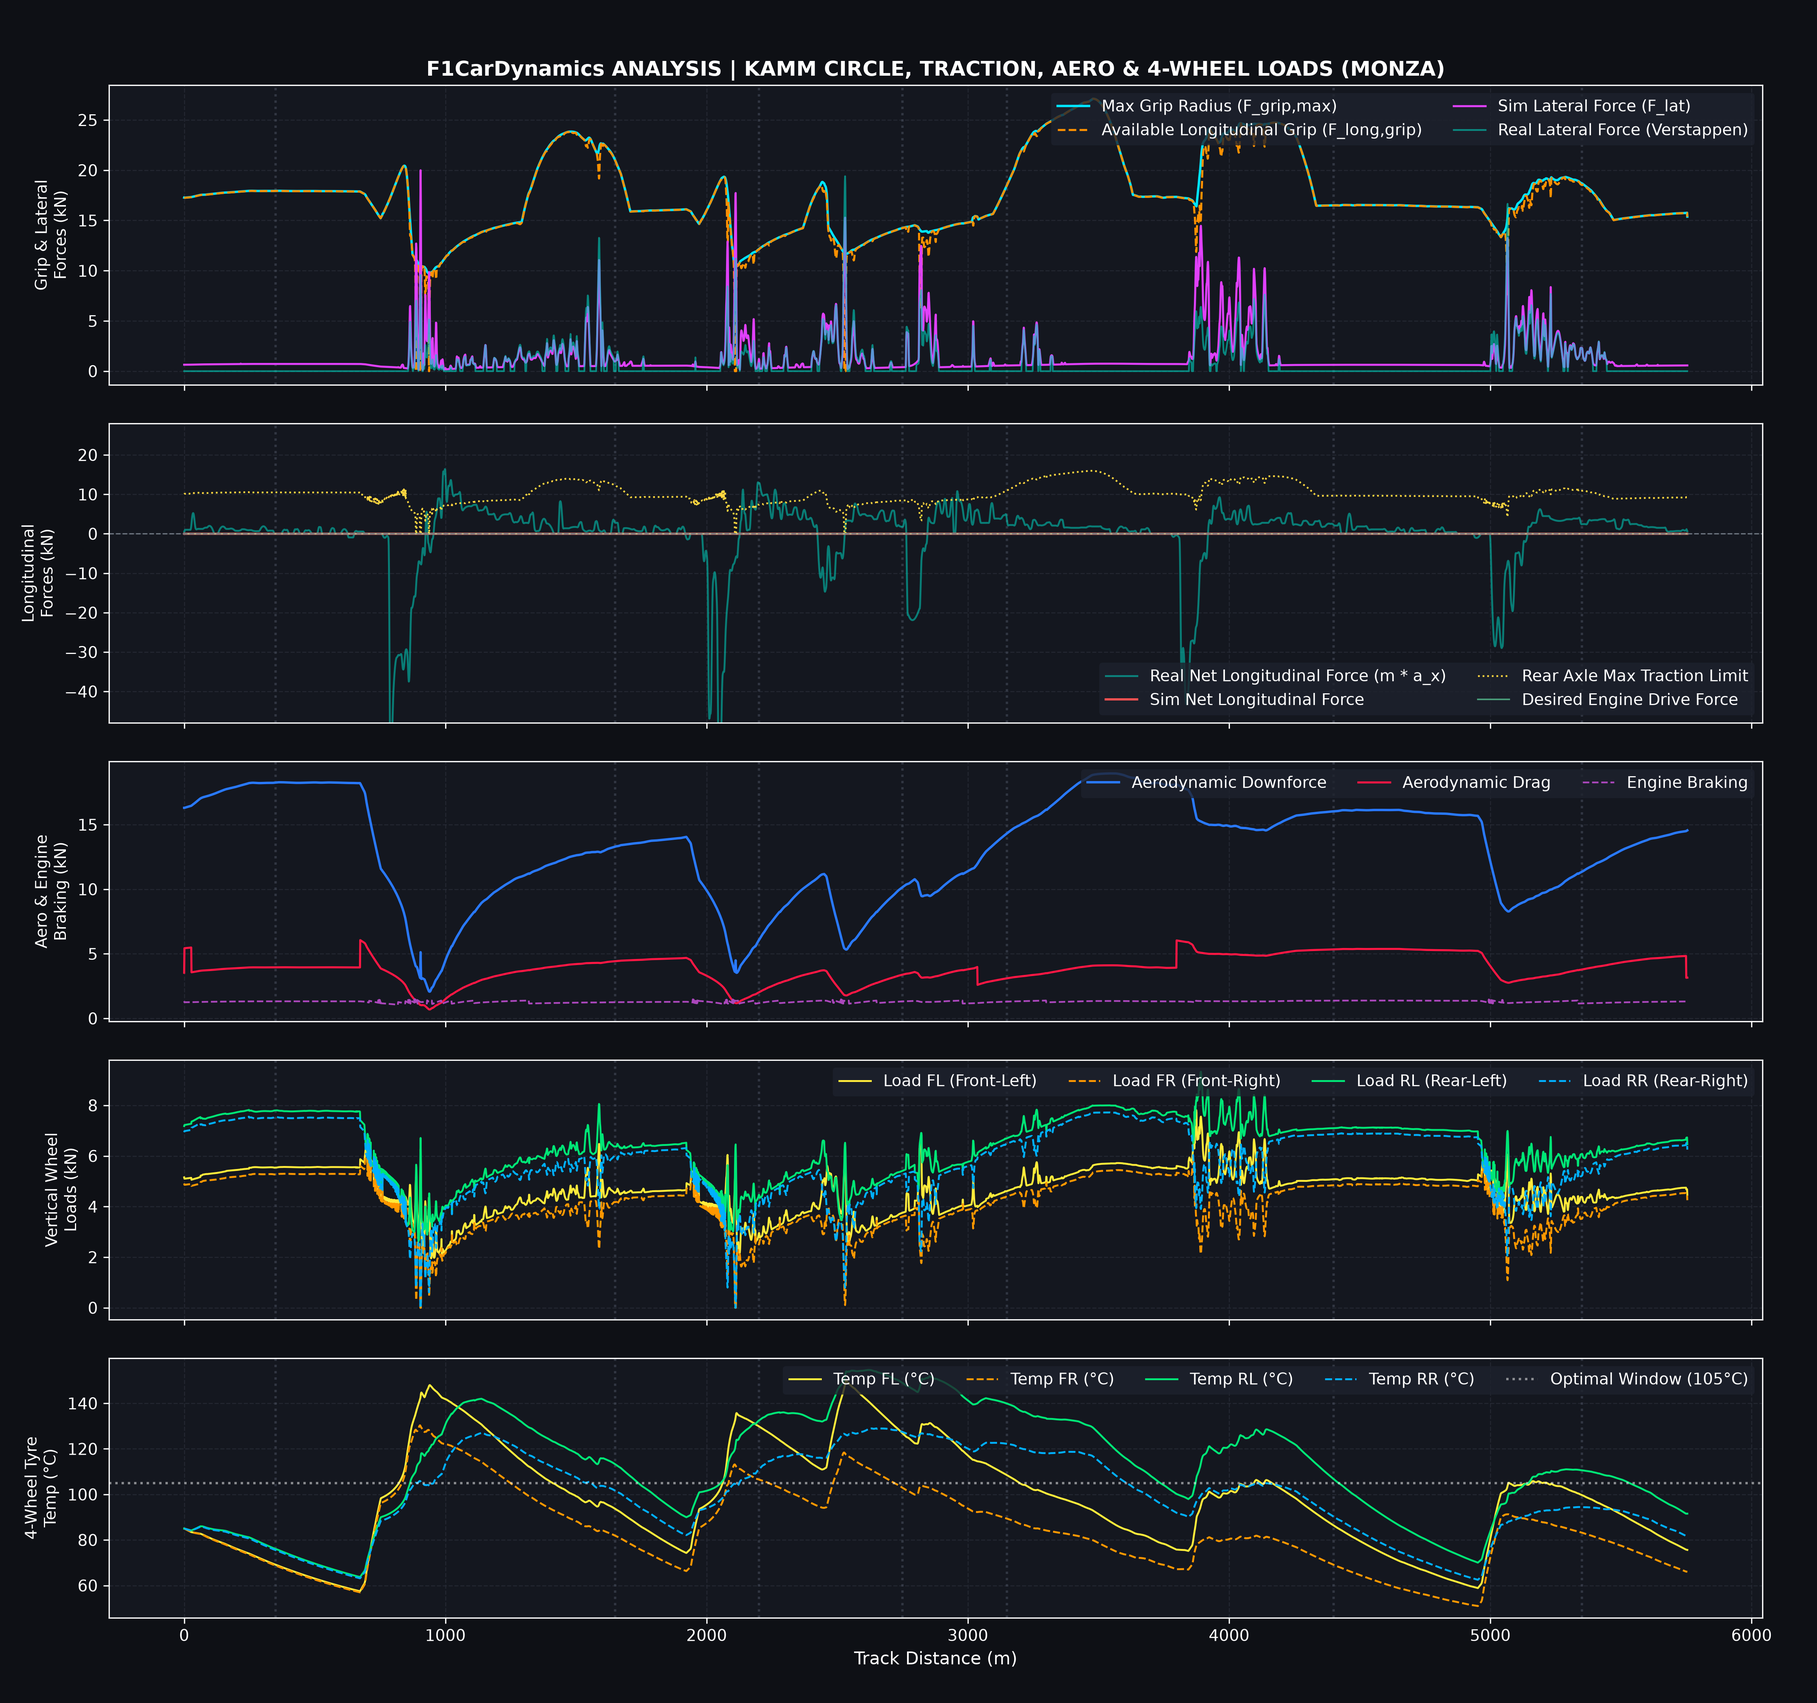
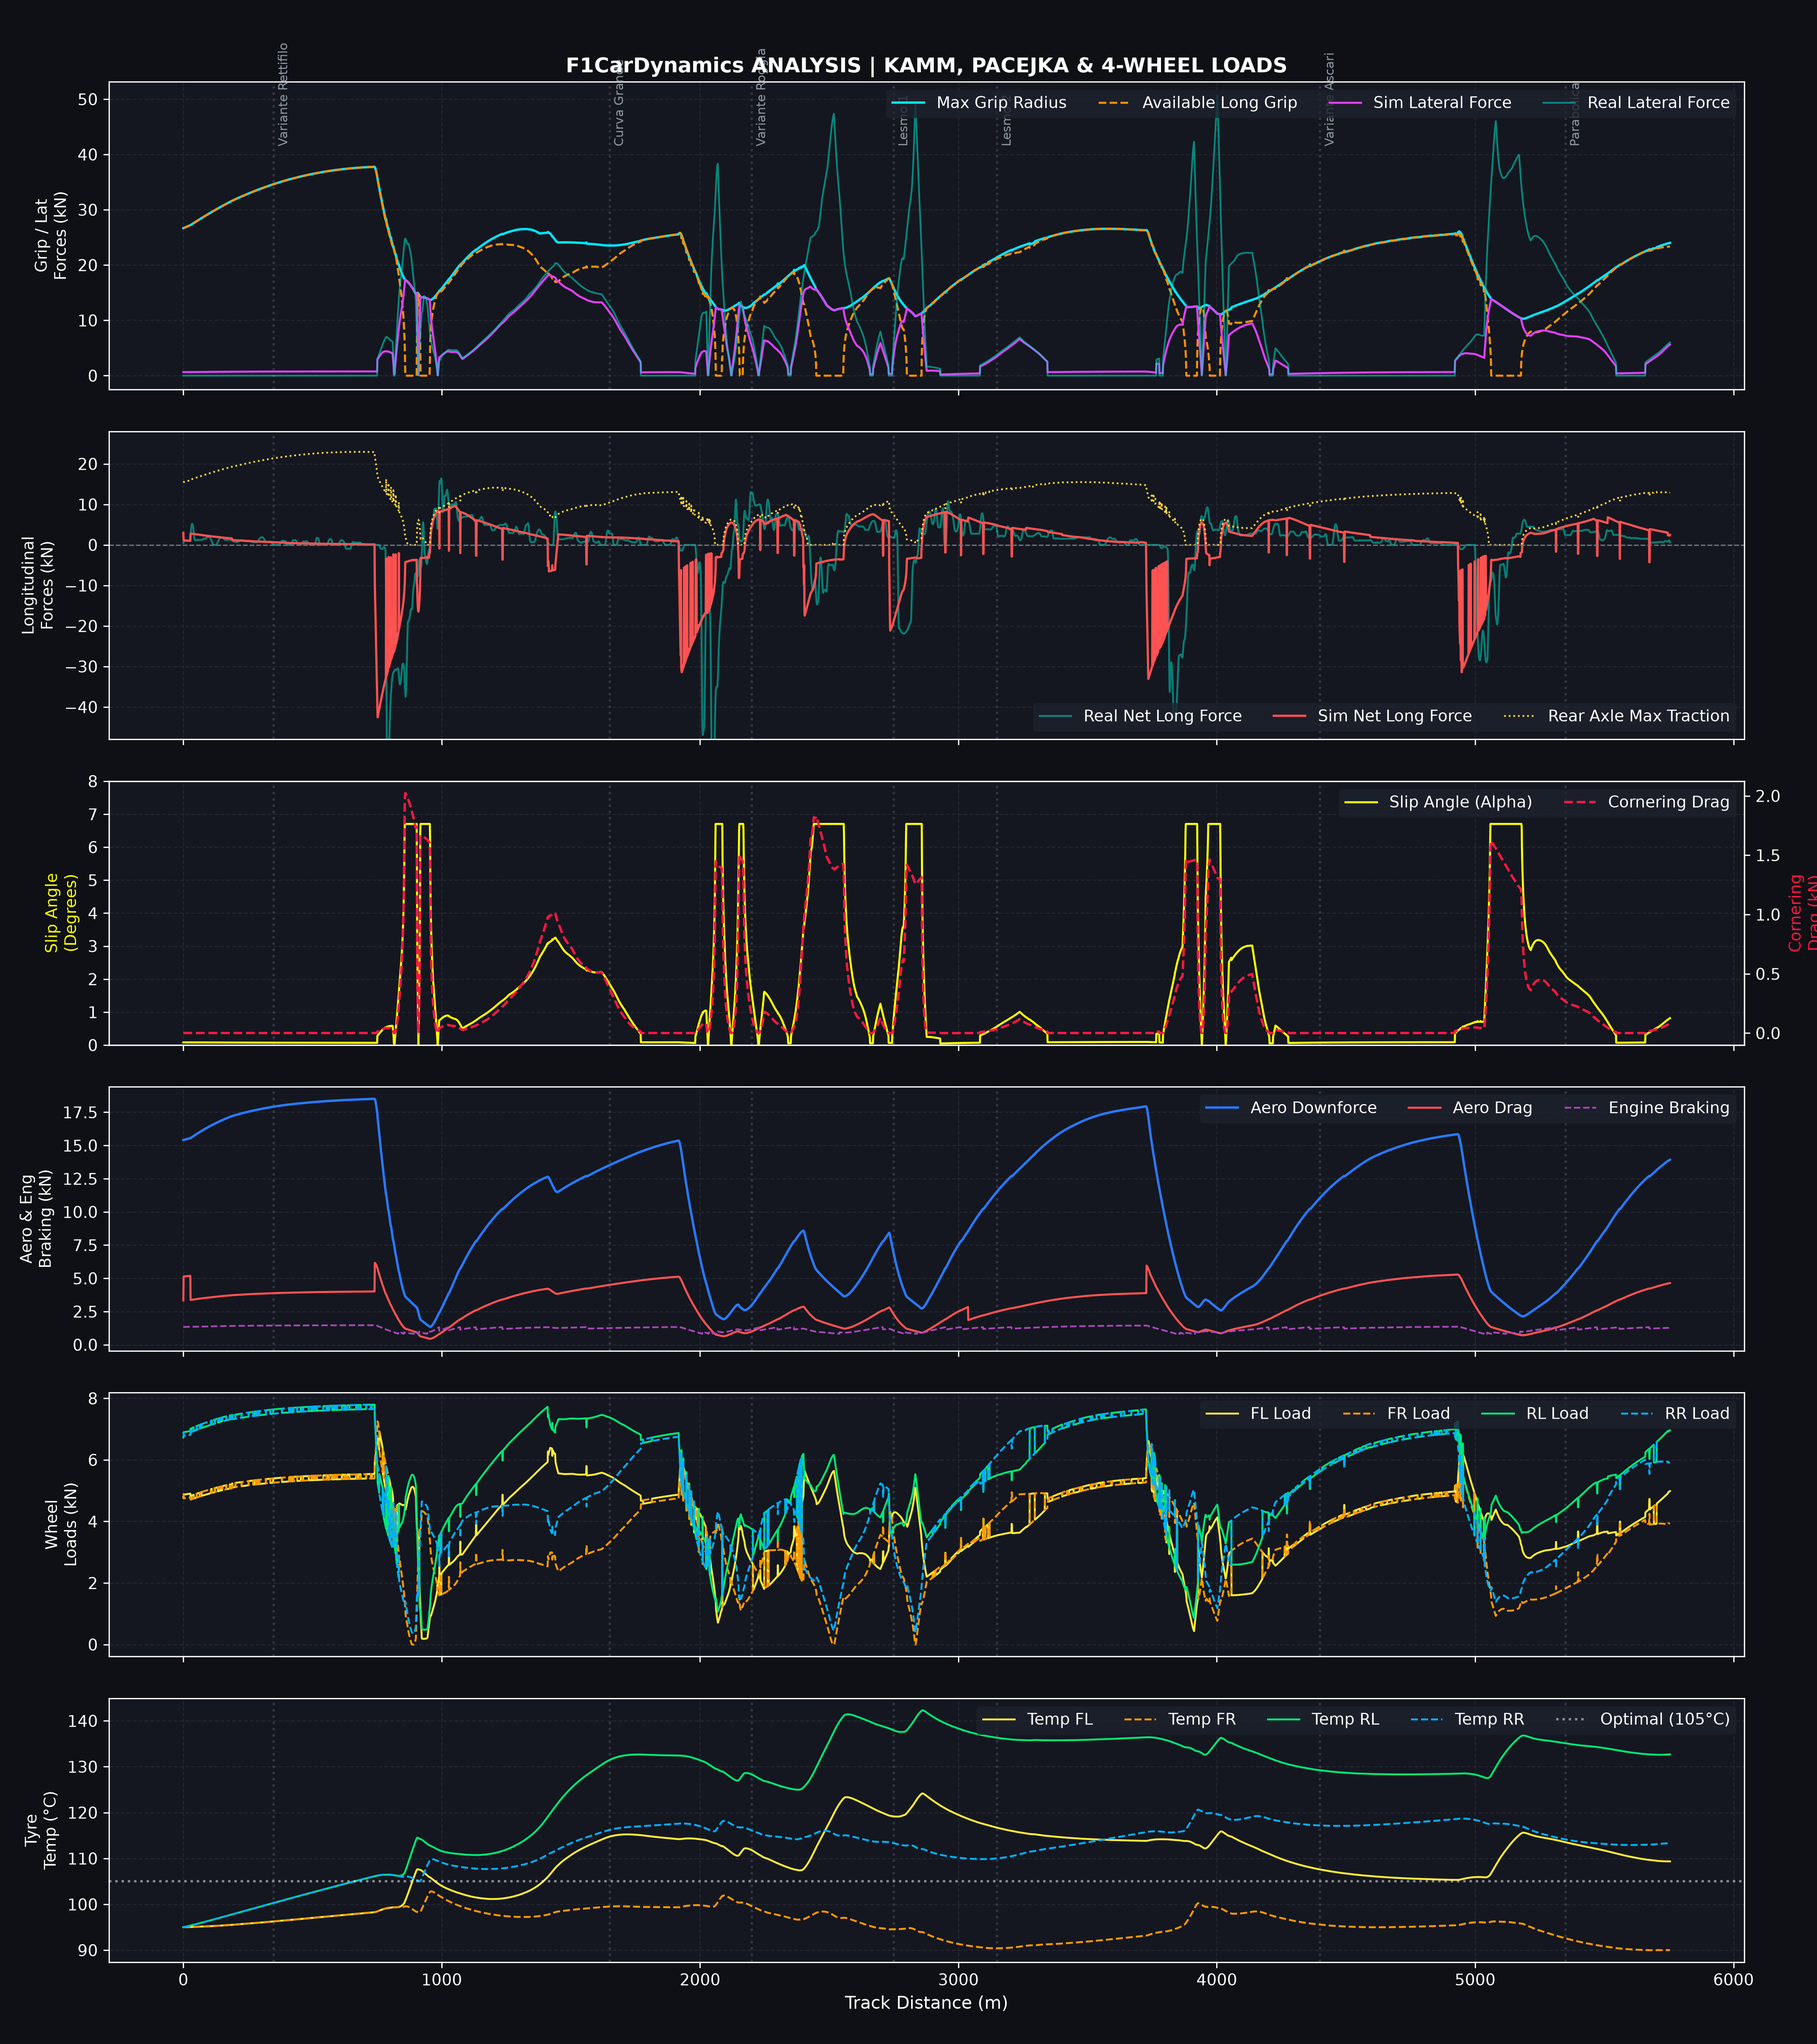
this is the last version with euler time step, updated photos and just changed some things, in the teadme.md file there is the explanation to the change euler -> 3 pass spatial loop

diff --git a/src/main.cpp b/src/main.cpp
@@ -55,8 +55,8 @@ int main(int argc, char* argv[]) {
     std::vector<SimResult> results(Config::NUM_SETUPS);
 
     std::mt19937 gen(888); 
-    std::uniform_real_distribution<float> ice_dist(380.0f, 420.0f);
-    std::uniform_real_distribution<float> mguk_dist(300.0f, 350.0f);
+    std::uniform_real_distribution<float> ice_dist(545.0f, 555.0f);
+    std::uniform_real_distribution<float> mguk_dist(110.0f, 130.0f);
     std::uniform_real_distribution<float> drag_dist(0.7f, 1.5f);
 
     for(int i = 0 ; i < Config::NUM_SETUPS ; ++i) {

diff --git a/README.md b/README.md
@@ -13,15 +13,12 @@ Designed to process multiple aerodynamic and powertrain configurations concurren
 Right now the program imports and exports data automatically so when you run it, picking a year, grand prix and session(for now only qualifying is suported) it will spew results for the visualization made in SFML and after you close the SFML window, a python script in `scripts/` will plot to the existing data folder already the `.pngs` generated for it here's an example:
 ![plot](./assets/2025_monza_q_performance.png)
 ![plot](./assets/2025_monza_q_inputs.png)
-![plot](./assets/2025_monza_q_thermals.png)
 ![plot](./assets/2025_monza_q_dynamics.png)
 
-The dynamics plot shows us some bugs:
- - Sim Net Longitudinal force and Desired engine force are glued to zero
- - The car thinks all corners are to the right (lmao)
- - High frequency noise in the lateral force
- - we got a lot of overheating in the tyres, huh i dont know how to fix that
- - maybe implement The Magic Formula Tire Model
+This is the last version that will have euler time step integration, in the next commits i will be changing the code from dt timespace into a 3-pass spatial loop.
+The explanation is simple, we are not looking to parallelize sequential time steps, we are looking to use cuda to optimize strategy and car variables that can be optimized. This will make the work more in line with what I had in mind. Changing from a time domain to a spatial domain is the best option due to the fact that a GPU can't parallelize sequential time steps. Our get_allowed_speed function causes throttle/brake oscillation, lateral force noise and artifical overheating.
+In the assets folder will be the last time the code used integration step and will be used to compare against the next version of our code with 3 pass spatial loop integration. bye bye driver bye byeee!!!
+
  
 ### Mathematical Modeling & Physics Formulation
 
